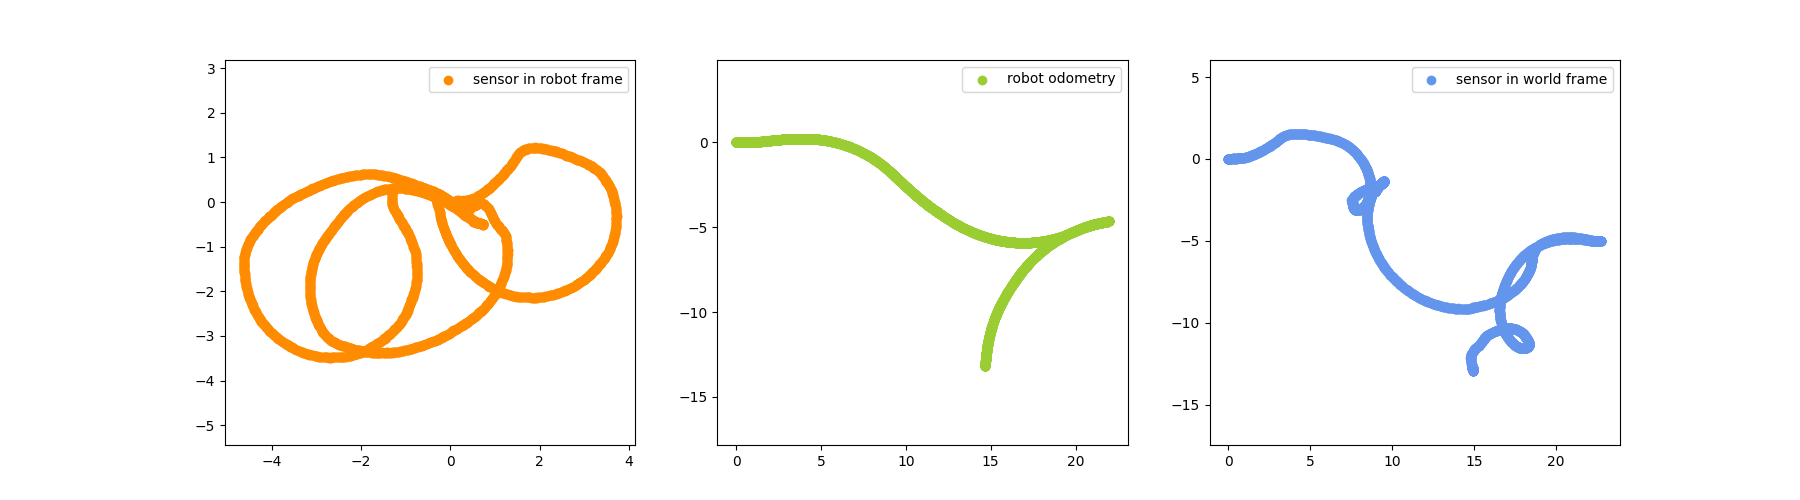
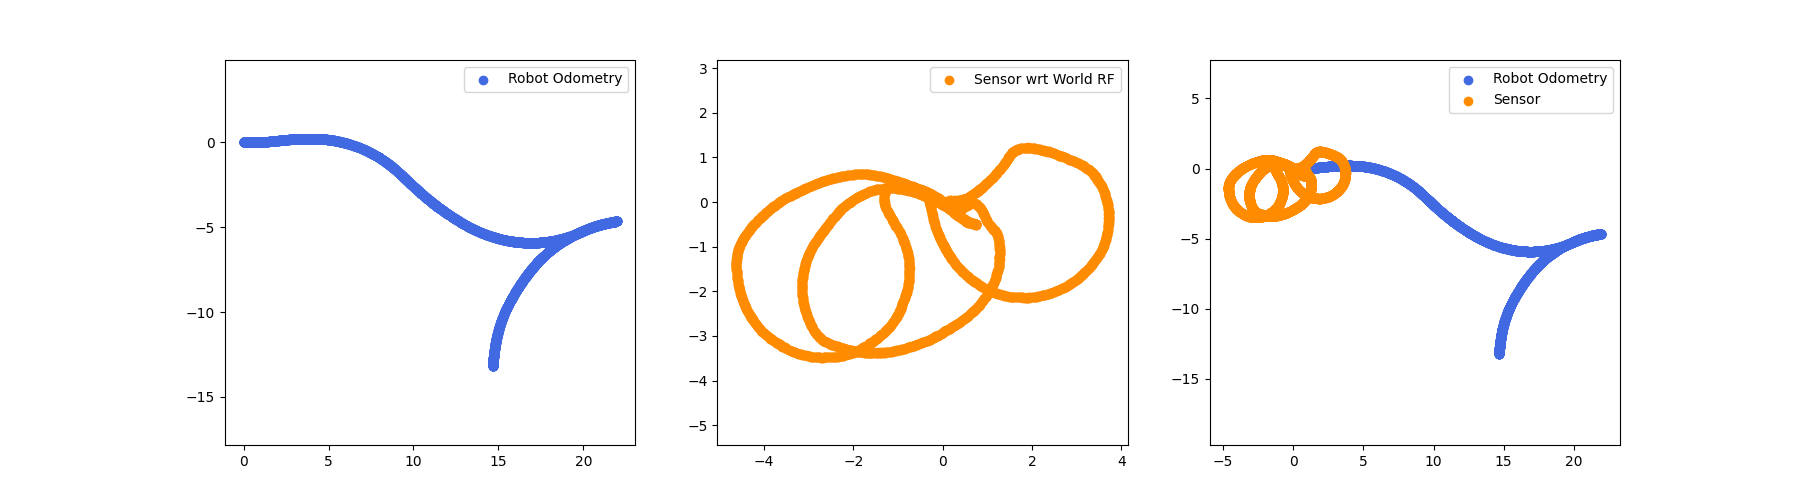
a lot of stuff to do

diff --git a/TricycleRobotCalibration/Calibration/least_squares.py b/TricycleRobotCalibration/Calibration/least_squares.py
@@ -39,17 +39,21 @@ def boxPlus(X, delta_x):
     ))
 
 def boxMinus(h, Z):
-    # h is the prediction given by the model aka the pose of the sensor wrt the world 
-    # Z is the measurement of the pose of the sensor wrt the world
-    return T2v(np.linalg.inv(v2T(Z.flatten())) @ v2T(h.flatten()))
+    # h is the prediction given by the model aka how much the robot moved from one instant to the other (you need also apply transformation for the sensor)
+    # Z is the measurement aka how much the sensor moved from instant to the other
+    return T2v(np.linalg.inv(v2T(h.flatten())) @ v2T(Z.flatten()))
 
 def computeError(prediction, measurement):
     # prediction boxminus measurement
     return boxMinus(prediction, measurement)
 
-def computeJacobian(error):
+def computeJacobian(error, x, epsilon=1e-6):
     # jacobian of the error wrt to the state calculated in the actual state
-    return jacobian(error)
+    # you need to compute the numeric jacobian
+    return None
+
+def predictionFunction(current_movement, sensor_pose_wrt_robot):
+    return np.linalg.inv(sensor_pose_wrt_robot) @ current_movement @ sensor_pose_wrt_robot
 
 def leastSquares(data, robot):
     print("Init Least Squares Algo")
@@ -75,10 +79,15 @@ def leastSquares(data, robot):
             
             # this should be my prediction function 
             _, steer_tick, tract_tick, next_tract_tick, meas = data.getMeasurement(j)
-            dx, dy, dtheta, _ = robot.ModelPrediction(steer_tick, tract_tick, next_tract_tick)
-            pred_robot_pose = np.array([[dx, dy, dtheta]])
-            robot.updatePose(pred_robot_pose)
-            pred = robot.Robot2Sensor()
+            dx, dy, dtheta, _ = robot.ModelPrediction(steer_tick, tract_tick, next_tract_tick) # how much you have moved from one state to the other
+            current_movement = np.array([[dx, dy, dtheta]])
+            sensor_pose_wrt_robot = robot.sensor_pose
+            current_prediction = predictionFunction(current_movement, sensor_pose_wrt_robot)
+            
+            
+            robot.updatePose(current_movement)
+            sensor_pose_wrt_robot = robot.Robot2Sensor()
+
             ######
 
             # the measurement is given by the amount 
@@ -111,13 +120,13 @@ def leastSquares(data, robot):
             for the sensor pose: X_s <- X_s @ v2T(delta_x_s)
 
     MEASUREMENT:
-        Z: {sensor pose given by odometry of the sensor} = {x_s y_s theta_s} belongs to SE(2)
+        Z: {difference btw sensor pose given by odometry of the sensor at instant i+1 and instant i} = {x_s y_s theta_s} belongs to SE(2)
         delta_z: {x_s y_s theta_s} euclidean param needed
         box_minus:
-            v2T(delta_z) <- Z'@ Z TODO finish this
+            v2T(delta_z) <- Z^{i+1}' @ Z^{i} TODO
 """
 # > State (kinematic_param | sensor_pose) = [Ksteer Ktract axis_length steer_offset | x_sens y_sens theta_sens]
-# > Measurements --> position of the sensor wrt the robot
+# > Measurements --> how much the sensor moved from one step to the other
 
 if __name__ == "__main__":
     data = Dataset()

diff --git a/TricycleRobotCalibration/Utils/dataset.py b/TricycleRobotCalibration/Utils/dataset.py
@@ -1,7 +1,7 @@
 import numpy as np
 from pathlib import Path
 import matplotlib.pyplot as plt
-from TricycleRobotCalibration.Utils.utils import getRotationMatrix
+from TricycleRobotCalibration.Utils.utils import getRotationMatrix, v2T
 
 utils_dir = Path(__file__).resolve().parents[2]
 
@@ -61,16 +61,18 @@ class Dataset:
 
 		fig, axs = plt.subplots(1,3)
 
-		axs[0].scatter(x_rob, y_rob, color="yellowgreen", label="Robot Odometry")
-		axs[1].scatter(x_sens_wrt_r, y_sens_wrt_r, color="darkorange", label="Sensor wrt Robot RF")
-		#axs[2].scatter(x_sens_wrt_w, y_sens_wrt_w, color="cornflowerblue", label="Sensor wrt World RF")
+		axs[0].scatter(x_rob, y_rob, color="royalblue", label="Robot Odometry")
+		axs[1].scatter(x_sens_wrt_r, y_sens_wrt_r, color="darkorange", label="Sensor wrt World RF")
+
+		axs[2].scatter(x_rob, y_rob, color="royalblue", label="Robot Odometry")
+		axs[2].scatter(x_sens_wrt_r, y_sens_wrt_r, color="darkorange", label="Sensor")
 
 		axs[0].axis("equal")
 		axs[1].axis("equal")
 		axs[2].axis("equal")
 		axs[0].legend()
 		axs[1].legend()
-		#axs[2].legend()
+		axs[2].legend()
 		fig.set_figheight(5)
 		fig.set_figwidth(18)
 		plt.savefig(PICS_PATH / "initial_data.png")
@@ -102,4 +104,4 @@ class Dataset:
 		
 if __name__ == "__main__":
 	data = Dataset()
-	# data.plotData()
+	data.plotData()
